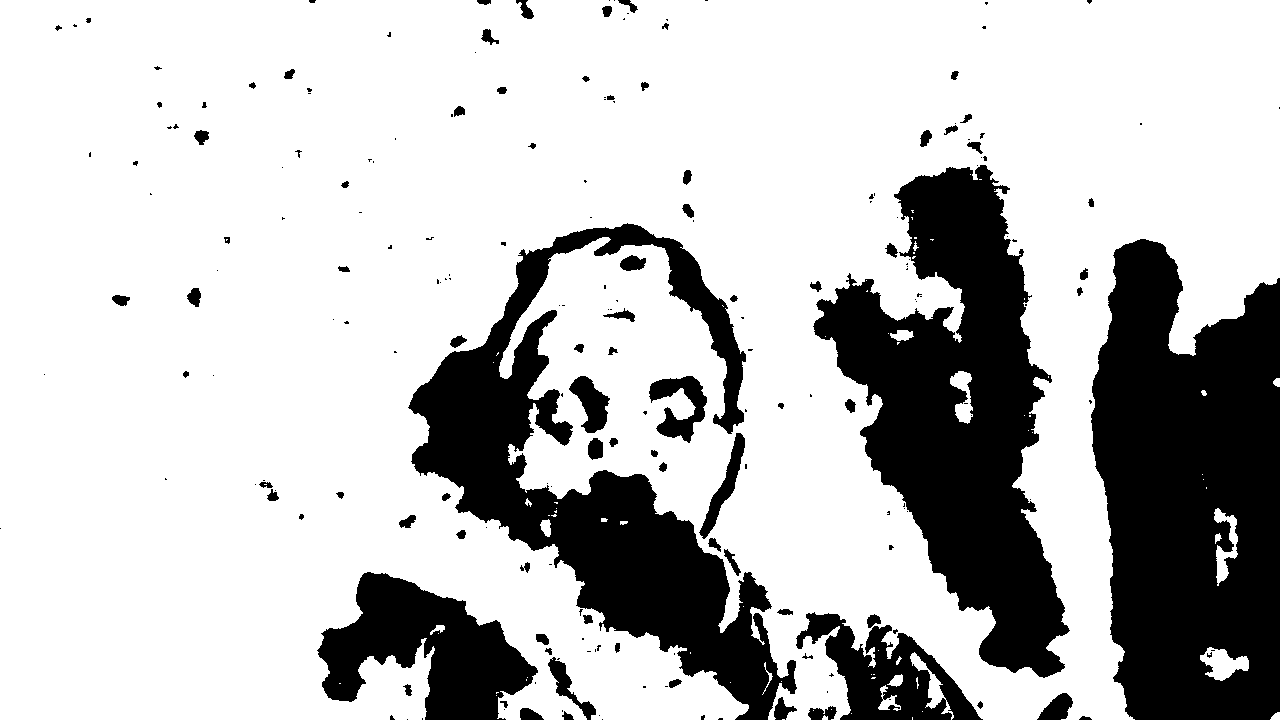
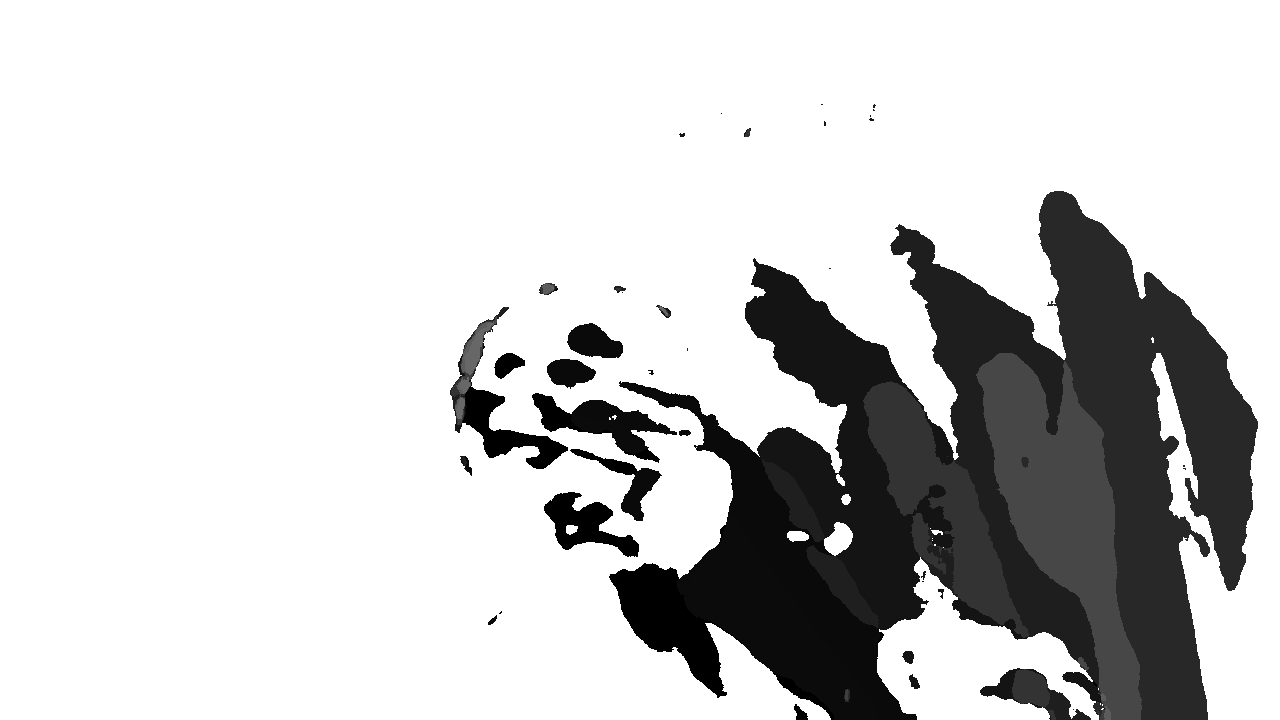
Changing image comparison algorithm Using Motion history images Adding 2 new gestures Adding additional hidden layer for neural network

diff --git a/src/main.py b/src/main.py
@@ -1,6 +1,7 @@
 import numpy as np
 import cv2
 import mlp
+from skimage.measure import compare_ssim as ssim
 
 print(cv2.__version__)
 
@@ -22,9 +23,7 @@ c = 0
 
 # Mean square error https://www.pyimagesearch.com/2014/09/15/python-compare-two-images/
 def mse(image_1, image_2):
-    err = np.sum((image_1.astype("float") - image_2.astype("float")) ** 2)
-    err /= float(image_1.shape[0] * image_1.shape[1])
-    return err
+    return ssim(image_1, image_2)
 
 
 def get_gesture_from_category(cat):
@@ -32,8 +31,15 @@ def get_gesture_from_category(cat):
         return "Left swipe"
     elif cat == 2:
         return "Right swipe"
+    elif cat == 3:
+        return "Swipe Down"
+    elif cat == 4:
+        return "Shrink"
 
 
+progress = 1
+previous_deviation = 0
+# fileName = 11
 while True:
     if capture.isOpened():
         # Capture frame by frame
@@ -43,23 +49,48 @@ while True:
             height = round(capture.get(4))
             # print('width'+str(width)) #width 1280
             # print('height'+str(height)) #height 720
+            # print(capture.get(cv2.CAP_PROP_FPS))
             flippedFrame = flip_frame(frame)
 
             frameWithoutBackground = fgbg.apply(flippedFrame)
             gray = cv2.cvtColor(flippedFrame, cv2.COLOR_BGR2GRAY)
-            ret, thresh1 = cv2.threshold(cv2.medianBlur(frameWithoutBackground, 11), 0, 1,
+            ret, thresh1 = cv2.threshold(cv2.medianBlur(frameWithoutBackground, 11), 0, 255,
                                          cv2.THRESH_BINARY_INV + cv2.THRESH_OTSU)
 
             if initial:
                 merged_frame = np.ones([height, width], np.uint8)
+                merged_frame = np.multiply(merged_frame, 255)
                 initial_frame = merged_frame
                 initial = False
             text = ""
             if c > 10:
-                merged_frame = np.bitwise_and(merged_frame, thresh1)
+                # merged_frame = np.bitwise_and(merged_frame, np.multiply(thresh1, 0.25))
+                # merged_frame = np.multiply(thresh1, progress)
+                thresh1[thresh1 == 0] = progress
+                mod = np.mod(thresh1, 255)
+                add = np.add(merged_frame, mod)
+                merged_frame = add
+                print('-------')
+                # cv2.imshow('Capture', add)
                 deviation = mse(initial_frame, merged_frame)
+                print("deviation")
                 print(deviation)
-                if deviation > 0.25:
+                text = ""
+                # print("previous_deviation")
+                # print(previous_deviation)
+                # print("substact")
+                # print(abs(deviation - previous_deviation))
+                # print("prog")
+                # print(progress)
+                if progress > 255:
+                    progress = 1
+
+                if abs(deviation - previous_deviation) > 0.001:
+                    progress = progress + 10
+                previous_deviation = deviation
+                if deviation < 0.8:
+                    # cv2.imwrite('5-'+str(fileName)+'.png', add)
+                    # fileName = fileName+1
                     print("---------")
                     classification = mlp.classify(merged_frame)
                     category = classification["class"]
@@ -71,16 +102,20 @@ while True:
                         print("Found gesture: " + str(category))
                     else:
                         print("Not found")
-                    print("Resetting image")
+                    print("================== Resetting image ==================")
                     merged_frame = np.ones([height, width], np.uint8)
+                    merged_frame = np.multiply(merged_frame, 255)
+                    previous_deviation = 0
+                    progress = 1
 
             c = c + 1
-            blackAndWhiteImage = np.multiply(merged_frame, 255)
-            cv2.imshow('Capture', cv2.putText(blackAndWhiteImage, text, (540, 50),
-                                             cv2.FONT_HERSHEY_SIMPLEX, 1, (0, 255, 0), 4, cv2.LINE_AA))
+            # blackAndWhiteImage = np.multiply(merged_frame, 255)
+            # print(blackAndWhiteImage)
+            cv2.imshow('Capture', cv2.putText(merged_frame, text, (540, 50),
+                                              cv2.FONT_HERSHEY_SIMPLEX, 1, (0, 255, 0), 4, cv2.LINE_AA))
 
-            if cv2.waitKey(25) & 0xFF == ord('q'):
-                # cv2.imwrite('3-10.png', blackAndWhiteImage)
+            if cv2.waitKey(10) & 0xFF == ord('q'):
+                # cv2.imwrite('1-4.png', add)
                 break
         else:
             break

diff --git a/src/mlp.py b/src/mlp.py
@@ -28,20 +28,30 @@ def load_images():
     x = []
     y = []
     print("Start loading images...")
-    for i in range(1, 11):
+    for i in range(1, 12):
         transformed_img = read_and_transform_image('data/train/1/1-' + str(i) + '.png')
         x.append(transformed_img)
         y.append(1)
 
-    for i in range(1, 11):
+    for i in range(1, 12):
         transformed_img = read_and_transform_image('data/train/2/2-' + str(i) + '.png')
         x.append(transformed_img)
         y.append(2)
 
-    for i in range(1, 11):
+    for i in range(1, 13):
         transformed_img = read_and_transform_image('data/train/3/3-' + str(i) + '.png')
         x.append(transformed_img)
         y.append(3)
+
+    for i in range(1, 12):
+        transformed_img = read_and_transform_image('data/train/4/4-' + str(i) + '.png')
+        x.append(transformed_img)
+        y.append(4)
+
+    for i in range(1, 21):
+        transformed_img = read_and_transform_image('data/train/5/5-' + str(i) + '.png')
+        x.append(transformed_img)
+        y.append(5)
     data = {"x": x, "y": y}
     print("Loading images finished")
     return data
@@ -62,7 +72,7 @@ def train():
     print("Start training neural network...")
     # Classification http://scikit-learn.org/stable/modules/neural_networks_supervised.html#classification
     # http://scikit-learn.org/stable/modules/generated/sklearn.neural_network.MLPClassifier.html#sklearn.neural_network.MLPClassifier
-    clf = MLPClassifier(verbose=True, solver='adam', alpha=0.0001, hidden_layer_sizes=(100, 100), random_state=1,
+    clf = MLPClassifier(verbose=True, solver='adam', alpha=0.0001, hidden_layer_sizes=(100, 100, 100), random_state=1,
                         early_stopping=False)
     clf.fit(x, y)
     print("Finished training. Persisting trained neural net")
